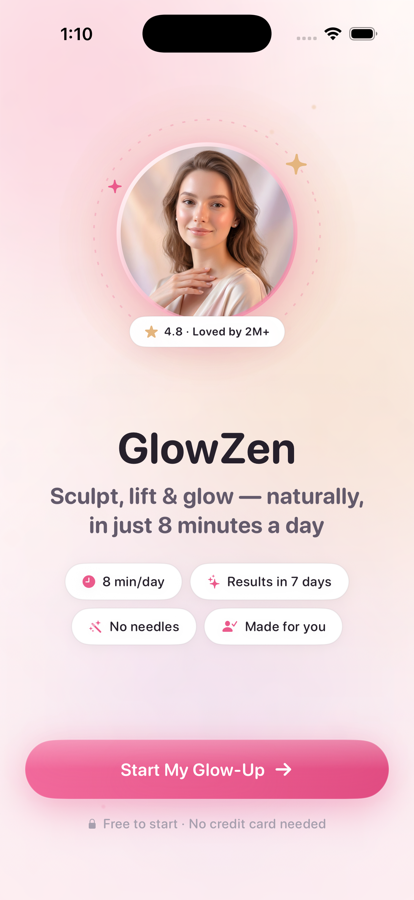
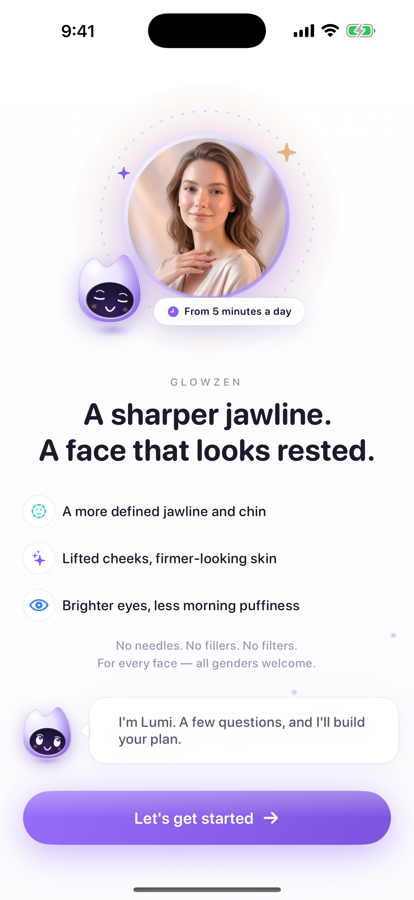
Move the site to the app's violet palette
The app switched its shipping palette from .roseQuartz to .violet to agree
with the app icon, and this repo was left on rose — a violet icon opening a
violet app, linked from a pink website.

Every token in the @theme block now carries the violet value from
GlowFace/Utilities/Theme.swift, including the two derived gradient stops
(accent +/-10%, matching GFGradients.primary) and the heavier card shadow
violet uses because the page behind it is white.

The token names still say "rose". They are aliases for palette roles, not
claims about hue, and the app does the same thing — GFColors.pink returns the
accent, so under .blueLight "pink" is blue. Renaming would touch ~200 call
sites for no rendered difference and would need redoing at the next palette
change. The role mapping is documented at the top of globals.css.

Also replaced, since they were rose-era too:

  - the logo, favicon and Apple icon, all previously a pink illustration of a
    woman in profile, now the app's own icon at the same sizes
  - both AppTour screenshots, which showed a superseded layout as well as the
    old palette, recaptured from the current build

Two colours did not live in the theme block and would have been missed:
layout.tsx's themeColor, and a hardcoded rgba(225,76,130) shadow on the Nav
CTA — an old rose-deep in a Tailwind arbitrary value, invisible to a grep for
"rgb(".

Violet sets glowStrength: 0, so the app's page is plain white. Matching that
[…]

diff --git a/app/globals.css b/app/globals.css
@@ -1,26 +1,50 @@
 @import "tailwindcss";
 
-/* GlowZen — "Rose Quartz & Cream".
+/* GlowZen — "Violet".
    These tokens mirror GlowFace/Utilities/Theme.swift so the site and the app
-   read as one brand. Only change a value here if it changes there too. */
+   read as one brand. Only change a value here if it changes there too.
+
+   The app moved its shipping palette from `.roseQuartz` to `.violet`
+   (`GFTheme.fallback`) to agree with the app icon, and this file had been left
+   on rose — a violet icon opening a violet app, linked from a pink website.
+
+   ## Why the names still say "rose"
+
+   They are literal-name aliases for palette *roles*, not claims about hue, and
+   the app does exactly the same thing: `GFColors.pink` returns the accent, so
+   under `.blueLight` "pink" is blue. Renaming `--color-rose` to
+   `--color-violet` would touch ~200 call sites across every page and component
+   for no rendered difference, and would have to be redone the next time the
+   palette moves. Read `rose` as "the accent", `orchid` as "the alternate
+   accent", and `cream` as "the page".
+
+   Role mapping, for the next person diffing the two files:
+     rose        -> accent          orchid  -> accentAlt
+     rose-light  -> accent +10% white   (GFGradients.primary's first stop)
+     rose-deep   -> accent -10% black   (GFGradients.primary's second stop)
+     cream       -> bgPrimary        cream-deep -> bgSecondary
+     ink/-soft/-muted -> textPrimary/Secondary/Tertiary
+     coral -> accentWarm             mint -> accentCool */
 @theme {
-  --color-blush: #fbd3de;
+  --color-blush: #e4dbfb;
+  /* Unchanged on purpose: champagne is the one colour that stays gold in every
+     palette, because the premium marks need a warm metal to read against. */
   --color-champagne: #e4b57e;
-  --color-pearl: #fff6ef;
+  --color-pearl: #f8f5ff;
 
-  --color-cream: #fffbf9;
-  --color-cream-deep: #fdeef1;
+  --color-cream: #ffffff;
+  --color-cream-deep: #fcfbfe;
 
-  --color-ink: #26202b;
-  --color-ink-soft: #635a6b;
-  --color-ink-muted: #a79fae;
+  --color-ink: #1b1b2e;
+  --color-ink-soft: #5c5a70;
+  --color-ink-muted: #9e9cb0;
 
-  --color-rose: #ea5a8b;
-  --color-rose-light: #f26a9c;
-  --color-rose-deep: #e14c82;
-  --color-orchid: #9b72e0;
+  --color-rose: #8b5cf6;
+  --color-rose-light: #976cf7;
+  --color-rose-deep: #7d53dd;
+  --color-orchid: #6366f1;
   --color-coral: #ff8a6b;
-  --color-mint: #3fbf9e;
+  --color-mint: #2fbfae;
 
   --font-sans: var(--font-nunito), ui-rounded, "SF Pro Rounded", system-ui, sans-serif;
   --font-display: var(--font-fraunces), Georgia, serif;
@@ -28,18 +52,29 @@
   --radius-card: 26px;
   --radius-hero: 34px;
 
-  --shadow-card: 0 12px 22px -8px rgb(197 106 136 / 0.14), 0 2px 5px rgb(0 0 0 / 0.04);
-  --shadow-lift: 0 20px 40px -12px rgb(197 106 136 / 0.3);
+  /* Violet's `cardShadow` is #6D5BA8 at 0.16 — a touch heavier than rose's,
+     because the page behind it is now white and the shadow is the only thing
+     lifting a card off it. */
+  --shadow-card: 0 12px 22px -8px rgb(109 91 168 / 0.16), 0 2px 5px rgb(0 0 0 / 0.04);
+  --shadow-lift: 0 20px 40px -12px rgb(109 91 168 / 0.3);
 }
 
 html {
   scroll-behavior: smooth;
 }
 
+/* Rose ran these washes at 0.55 and 0.9, which is what produced the warm cream
+   page. Violet sets `glowStrength: 0` — in the app the tinted background
+   circles are switched off entirely and the page is plain white.
+
+   Matching that literally would leave a marketing page dead flat, so the washes
+   are kept at roughly a third of their old strength: enough to keep some light
+   in the corners, faint enough that the page still reads as white rather than
+   as lilac. Delete these two lines for exact parity with the app. */
 body {
   background:
-    radial-gradient(60rem 40rem at 85% -10%, rgb(251 211 222 / 0.55), transparent 60%),
-    radial-gradient(50rem 35rem at 5% 5%, rgb(255 246 239 / 0.9), transparent 55%),
+    radial-gradient(60rem 40rem at 85% -10%, rgb(228 219 251 / 0.30), transparent 60%),
+    radial-gradient(50rem 35rem at 5% 5%, rgb(248 245 255 / 0.70), transparent 55%),
     linear-gradient(to bottom, var(--color-cream), var(--color-cream-deep));
   background-attachment: fixed;
   color: var(--color-ink);
@@ -73,13 +108,14 @@ body {
 
 @utility card-surface {
   background-color: #fff;
-  border: 1px solid rgb(38 32 43 / 0.06);
+  /* Hairline derived from the new ink (#1B1B2E), not the old plum-black. */
+  border: 1px solid rgb(27 27 46 / 0.06);
   border-radius: var(--radius-card);
   box-shadow: var(--shadow-card);
 }
 
-/* Visible keyboard focus everywhere, since the brand pink on cream is low
-   contrast for a default outline. */
+/* Visible keyboard focus everywhere, since the brand accent on a near-white
+   page is low contrast for a default outline. */
 :focus-visible {
   outline: 3px solid var(--color-rose-deep);
   outline-offset: 3px;

diff --git a/app/opengraph-image.tsx b/app/opengraph-image.tsx
@@ -29,7 +29,7 @@ export default async function Image() {
           flexDirection: "column",
           justifyContent: "center",
           padding: "88px",
-          backgroundImage: "linear-gradient(135deg, #fffbf9, #fdeef1)",
+          backgroundImage: "linear-gradient(135deg, #ffffff, #fcfbfe)",
         }}
       >
         <div style={{ display: "flex", alignItems: "center", gap: "28px" }}>
@@ -41,7 +41,7 @@ export default async function Image() {
             alt=""
             style={{ borderRadius: "26px" }}
           />
-          <span style={{ fontSize: 54, fontWeight: 800, color: "#26202b" }}>
+          <span style={{ fontSize: 54, fontWeight: 800, color: "#1b1b2e" }}>
             {SITE_NAME}
           </span>
         </div>
@@ -56,7 +56,7 @@ export default async function Image() {
             marginTop: "44px",
             fontSize: 80,
             fontWeight: 700,
-            color: "#26202b",
+            color: "#1b1b2e",
           }}
         >
           <div style={{ display: "flex" }}>Sculpt, lift &amp; glow</div>
@@ -68,7 +68,7 @@ export default async function Image() {
             display: "flex",
             marginTop: "36px",
             fontSize: 36,
-            color: "#635a6b",
+            color: "#5c5a70",
           }}
         >
           Eight minutes a day. No equipment, no procedures.
@@ -83,7 +83,7 @@ export default async function Image() {
                 padding: "16px 32px",
                 borderRadius: "999px",
                 backgroundColor: "#ffffff",
-                color: "#e14c82",
+                color: "#7d53dd",
                 fontSize: 30,
                 fontWeight: 700,
               }}

diff --git a/components/Nav.tsx b/components/Nav.tsx
@@ -43,7 +43,7 @@ export default function Nav() {
 
         <a
           href="#get"
-          className="gradient-rose rounded-full px-5 py-2.5 text-[15px] font-bold text-white shadow-[0_8px_18px_-6px_rgba(225,76,130,0.6)] transition-transform hover:-translate-y-0.5"
+          className="gradient-rose rounded-full px-5 py-2.5 text-[15px] font-bold text-white shadow-[0_8px_18px_-6px_rgba(125,83,221,0.6)] transition-transform hover:-translate-y-0.5"
         >
           Get the app
         </a>

diff --git a/app/layout.tsx b/app/layout.tsx
@@ -87,7 +87,7 @@ export const metadata: Metadata = {
 };
 
 export const viewport: Viewport = {
-  themeColor: "#fffbf9",
+  themeColor: "#ffffff",
 };
 
 export default function RootLayout({
